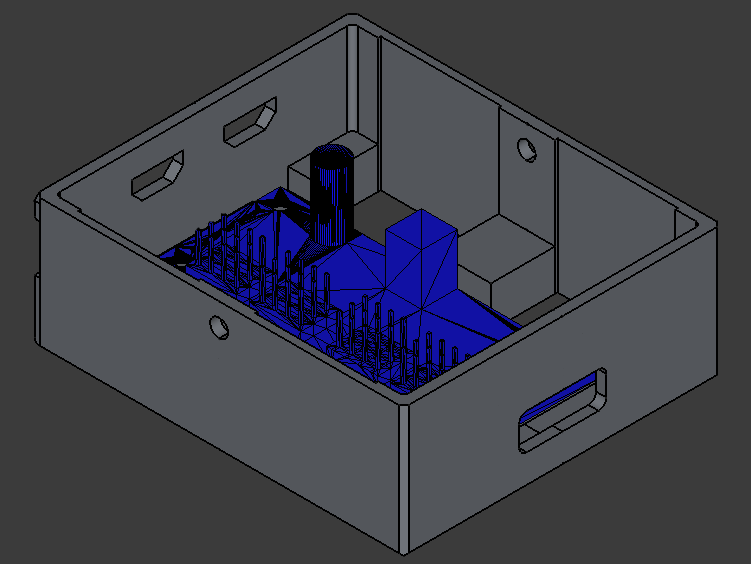
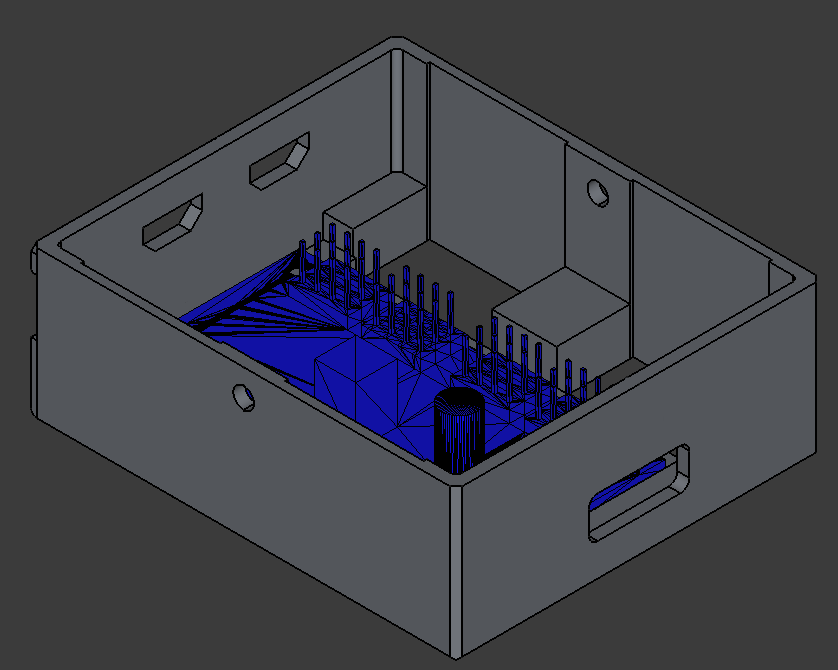
Until Connection servos to PCA9685

diff --git a/instructions/assembly_steps.md b/instructions/assembly_steps.md
@@ -54,7 +54,7 @@ Solder the following connections:
 ## 2. Assembling chasis (Part 1)
 
 #### 2.1. `PCA9685` attachment in the chasis
-Put the `PCA9685` in the space at the bottom center of the `chasis`.
+Put the `PCA9685` in the space at the bottom center of the `chasis` as it is placed in the image:
 
 <p align="center">
   <img src="./media/steps/step_2_1_1.png" width="50%">
@@ -115,19 +115,73 @@ You can use the `sheet metal screws` that are included with the servos to attatc
 
 #### 3.2. Join the elbow and the shoulder
 
-First, insert an M3 nut into the corresponding slot on the shoulder.
+First, identify how you shuold place de elbow.
+
+<p align="center">
+  <img src="./media/steps/step_3_2_place1.png" width="50%"><img src="./media/steps/step_3_2_place2.png" width="50%">
+  <img src="./media/steps/step_3_2_place3.png" width="36.4%"><img src="./media/steps/step_3_2_place_4.png" width="50%">
+</p>
+
+Then, insert a `M3 nut` into the corresponding slot on the shoulder.
 
 <p align="center">
   <img src="./media/steps/step_3_2_nut.png" width="50%">
 </p>
 
-Then, screw the elbow to the shoulder as shown, from the non-servo side.
+Finally, screw the elbow to the shoulder as shown, from the non-servo side.
 
 <img src="./media/steps/step_3_2_1.png" width="70%">
 
 The servo-side will be attached in [part 9](#9-assembling-legs-part-2s).
 
+#### 3.3. Join the `leg up link` and the shoulder
+
+Use `M3x30mm bolt` and `M3 nut`.
+
+<p align="center">
+  <img src="./media/steps/step_3_3_1.png" width="50%"><img src="./media/steps/step_3_3_2.png" width="50%">
+</p>
+
+### 3.4. Add the foot
+
+Use `M3x30mm bolts` and a `M3 nuts`.
+
+<p align="center">
+  <img src="./media/steps/step_3_4_1.png" width="50%">
+</p>
+
+### 3.5. Right vs Left
+**REMEMBER THAT:** *Left shoulder/elbow* are for *front left* leg and *back right* leg, while *right shoulder/elbow* are for *front right* leg, *back left* leg.
+
+<p align="center">
+  <img src="./media/steps/step_3_5_1.png" width="50%">
+</p>
+
+<p align="center">
+  <img src="./media/steps/step_3_5_2.png" width="50%"><img src="./media/steps/step_3_5_3.png" width="33.5%">
+</p>
+
 ## 4. Connecting servos to `PCA9685`
+
+Now you should connect the 8 `servos` to the `PCA9685` following the  [schematic](../electronics/brutus_schematic/brutus_electronic_schematics.svg) (<-- Click here to see it bigger):
+<img src="../electronics/brutus_schematic/brutus_electronic_schematics.svg" width="50%">
+
+<img src="./media/components/pca_2.jpg" width="50%">
+
+```
+      0 ---------------------------> 15
+```
+
+| Joint | `PCA9685`'s pin |
+| :--- | ---: |
+| Front Right Shoulder | 13 |
+| Front Right Elbow | 12 |
+| Front Left Shoulder | 9 |
+| Front Left Elbow | 8 |
+| Back Right Shoulder | 2 |
+| Back Right Elbow | 3 |
+| Back Left Shoulder | 0 |
+| Back Left Elbow | 1 |
 
 ## 5. Assembling chasis (Part 2)
 
@@ -135,10 +189,7 @@ The servo-side will be attached in [part 9](#9-assembling-legs-part-2s).
 
 ## 7. Assembling upper box
 
-x(2x3) [vcc y gnd] jumper (cortado-hembra): terminal <-> HC-SR04
 
-x2 [vin y gnd] 16 AWG: battery <-> Buck
-x2 [vout y gnd] 16 AWG: buck <-> terminal
 
 ## 8. Joining upper box with chasis
 

diff --git a/instructions/materials.md b/instructions/materials.md
@@ -66,3 +66,4 @@
 | Name | Details | Quantity | Image |
 | :--- | :---: | :---: | ---: |
 | `Bearing` | F693ZZ Bearing | 8 | <img src="./media/components/bearing.jpg" width="150"> |
+| `M3x30mm Bolt` | M3 30mm Hex bolt | 12 | - |
